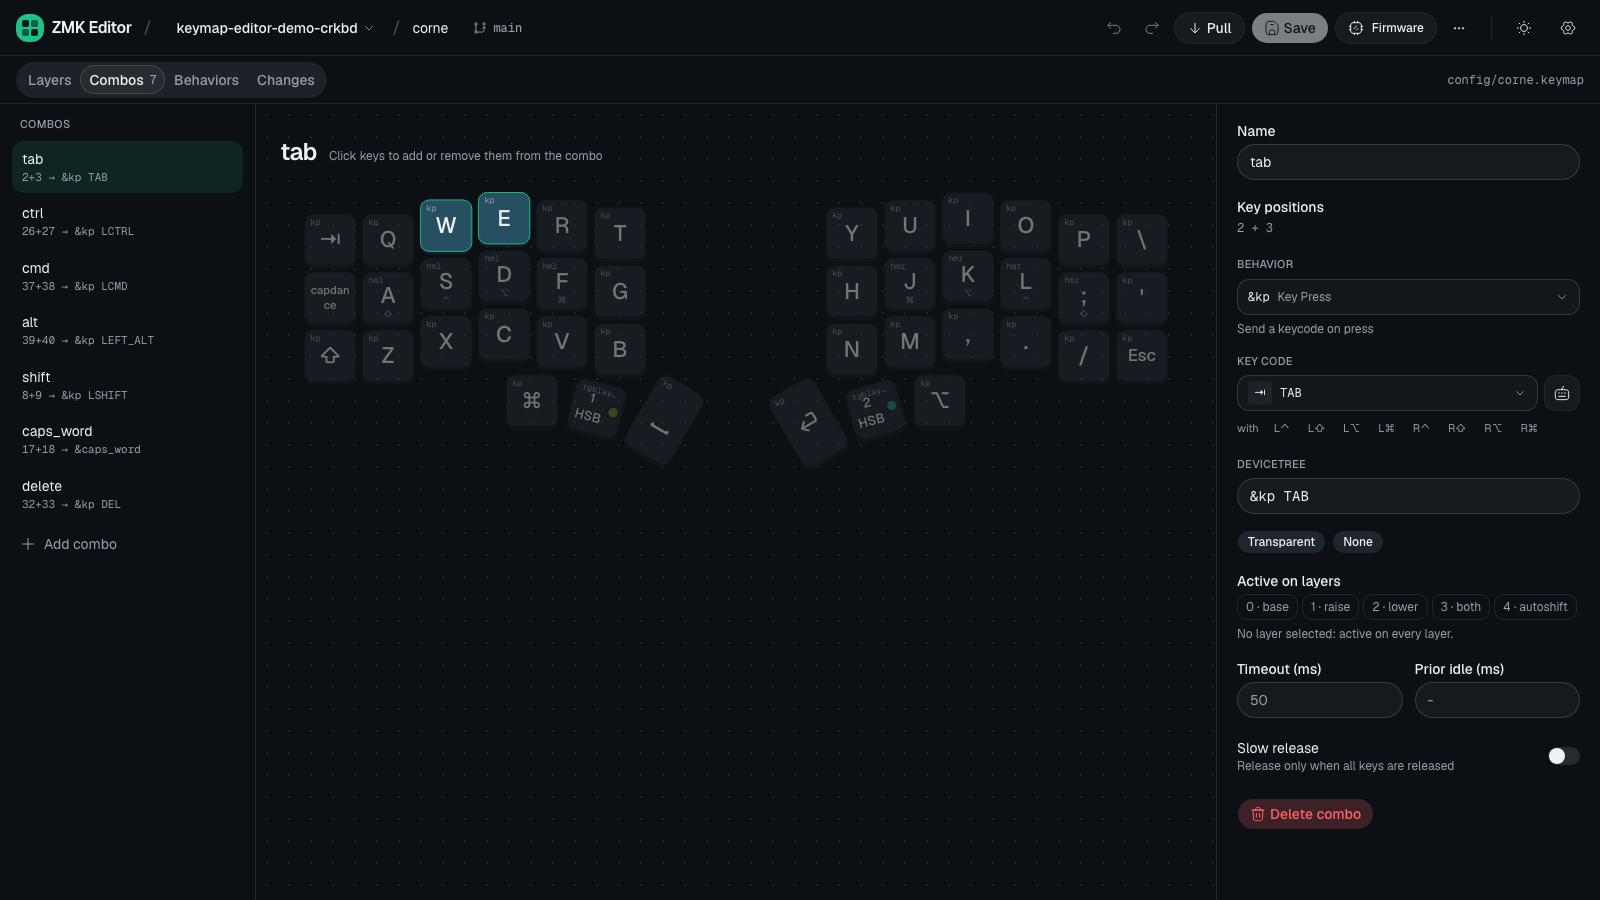
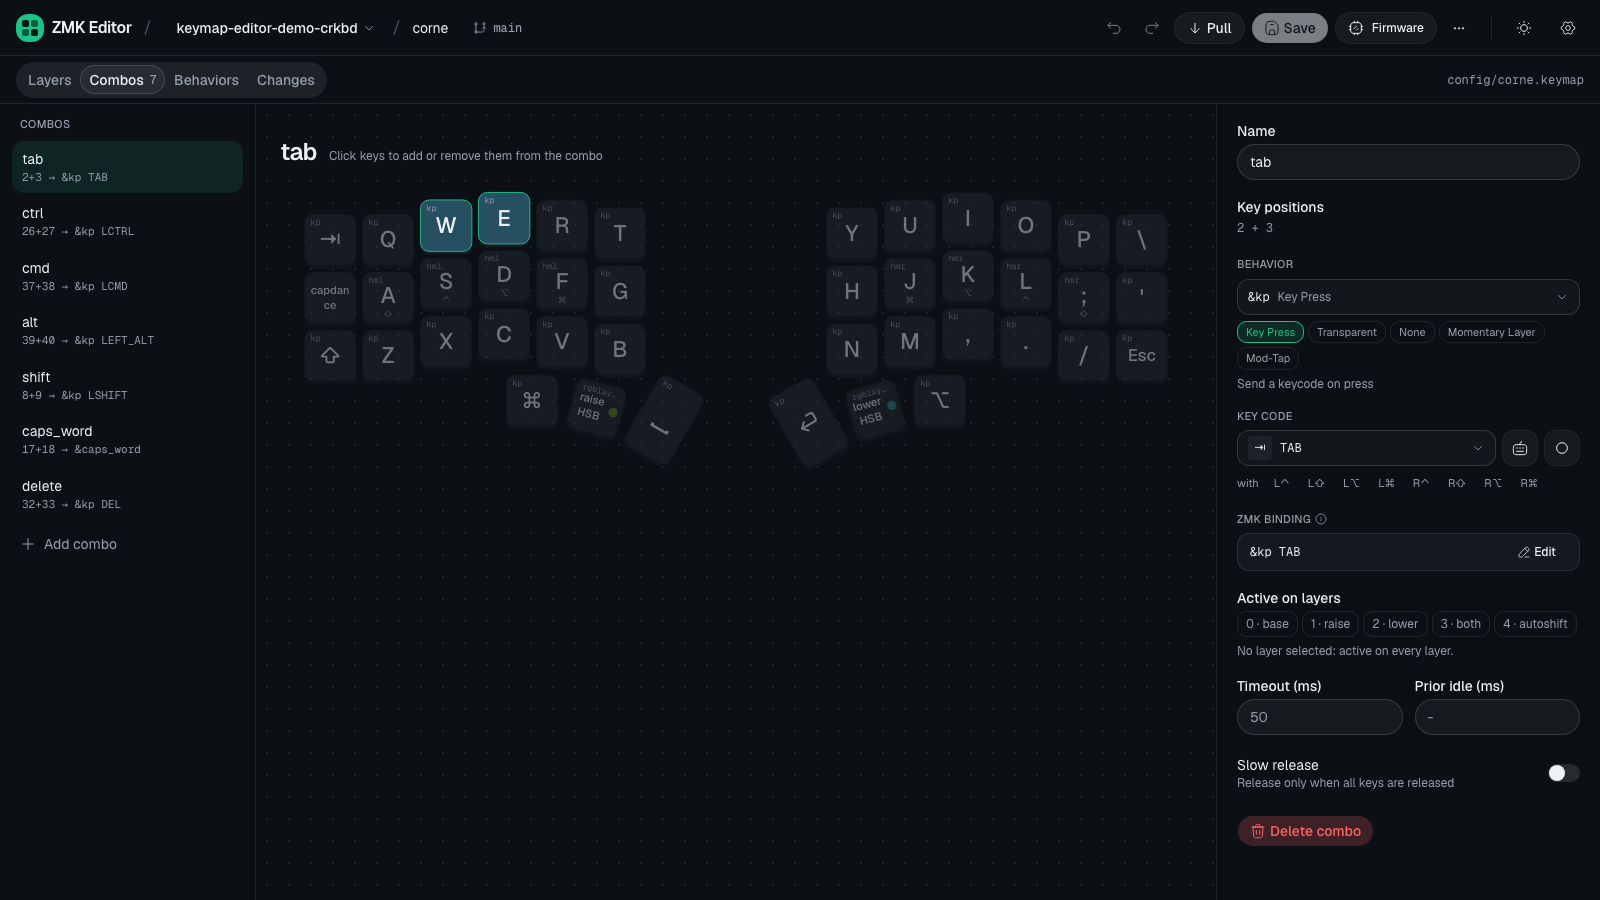
Update README screenshots, add key picker and Behaviors tab

diff --git a/README.md b/README.md
@@ -49,6 +49,10 @@ ZMK Editor is a new implementation and does not reuse keymap-editor's source cod
 
 ![Editing a combo](docs/combos.png)
 
+![Picking Ctrl + Shift + Q on the key picker keyboard](docs/picker.png)
+
+![Editing a home row mod hold-tap on the Behaviors tab](docs/behaviors.png)
+
 ## Getting started
 
 ### Build
